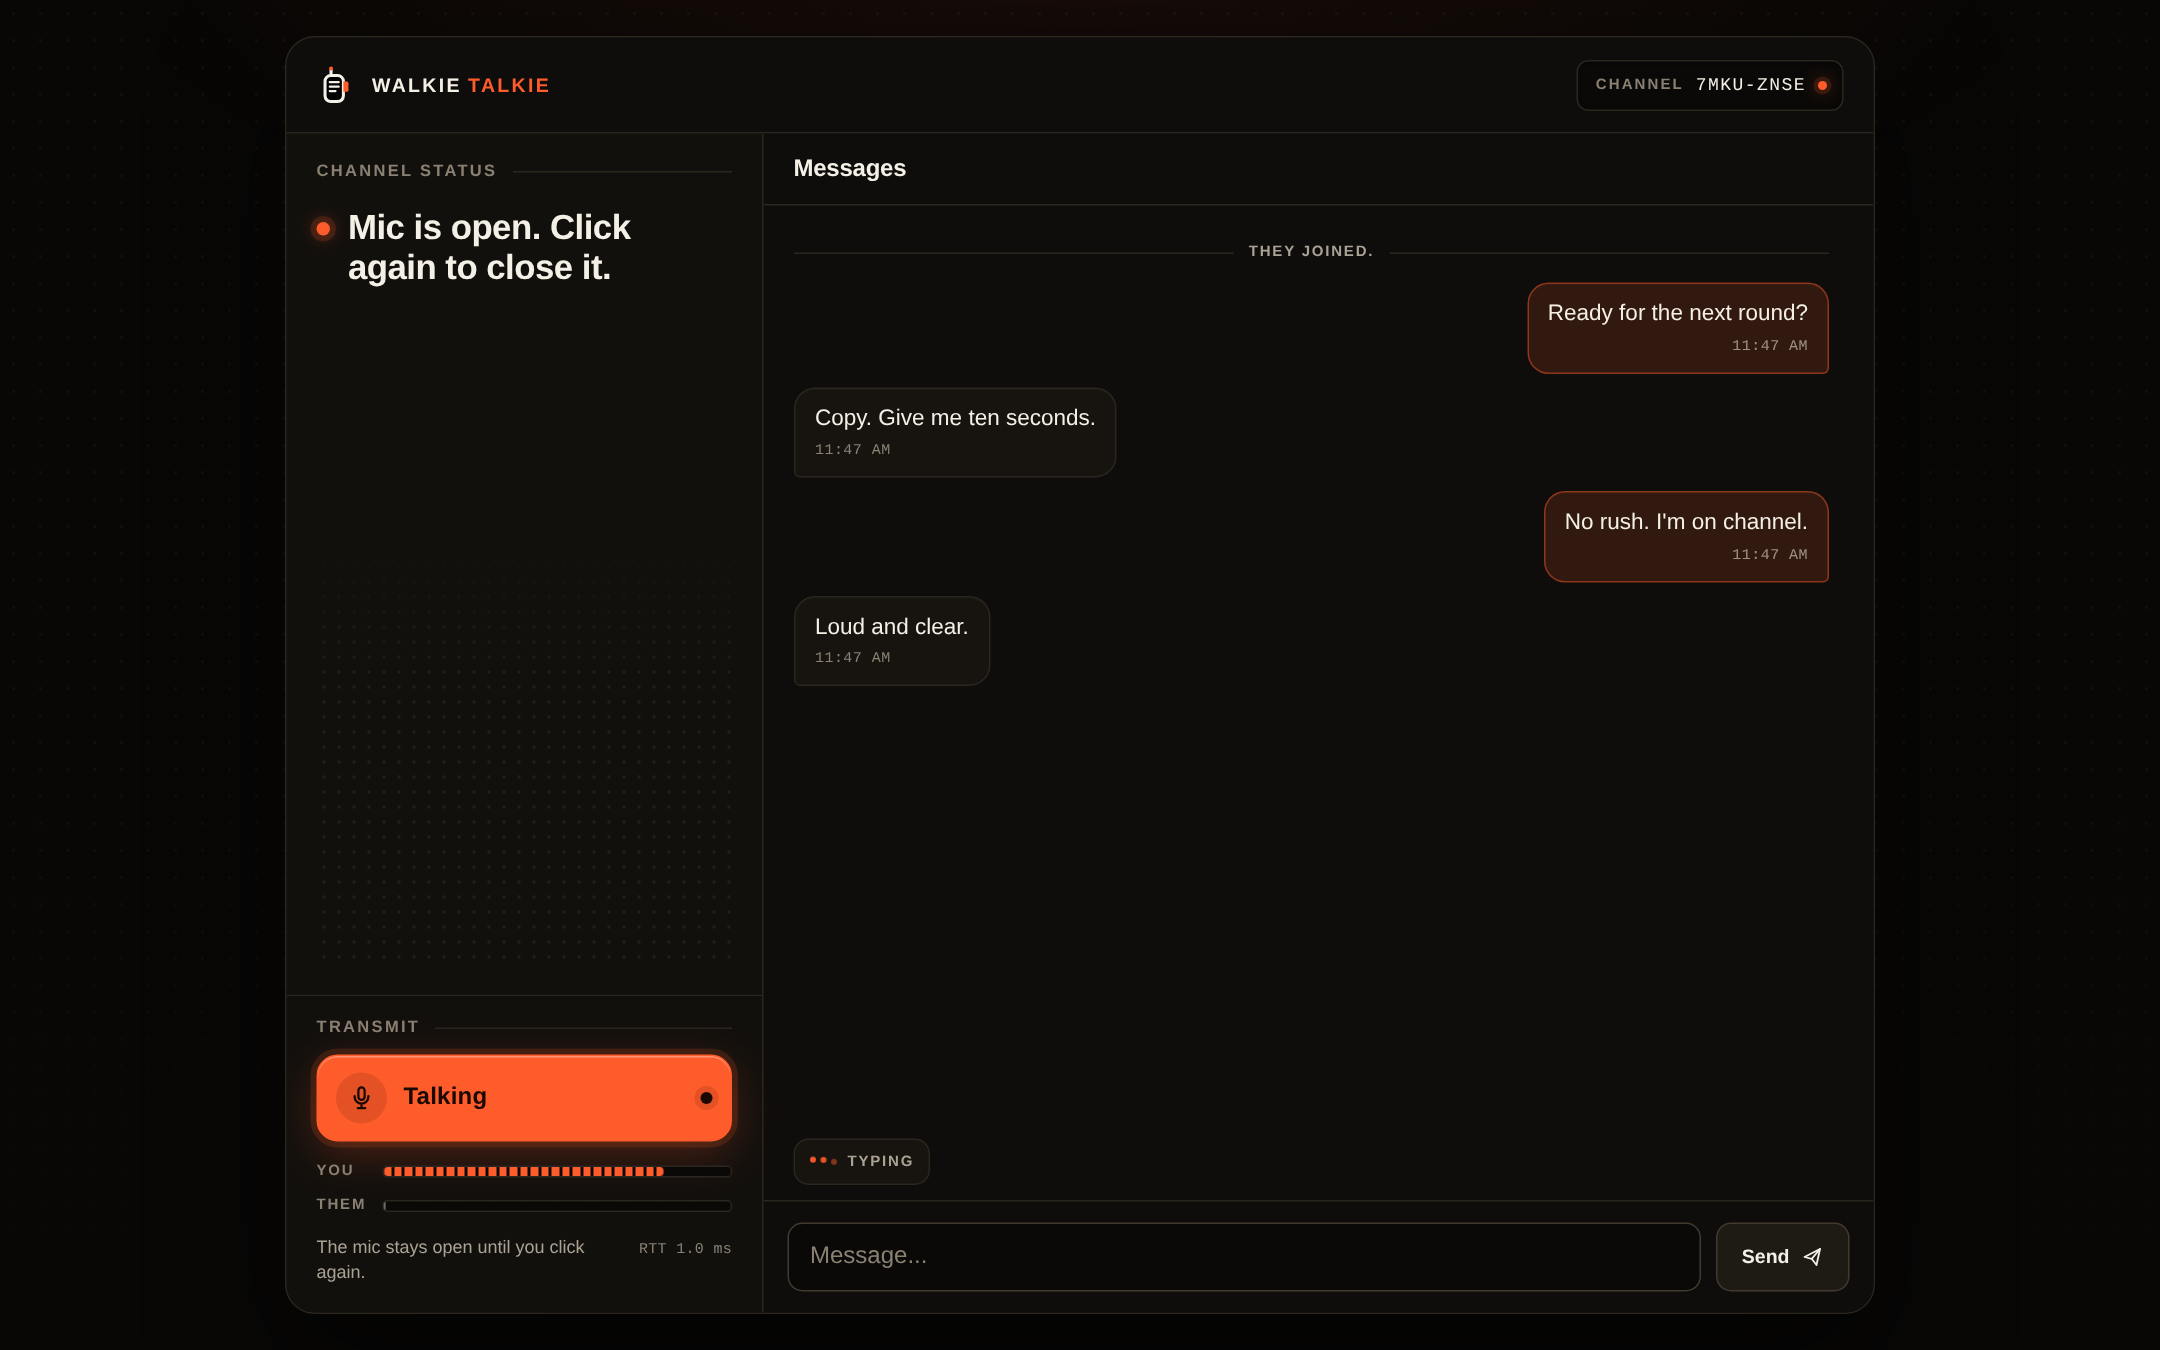
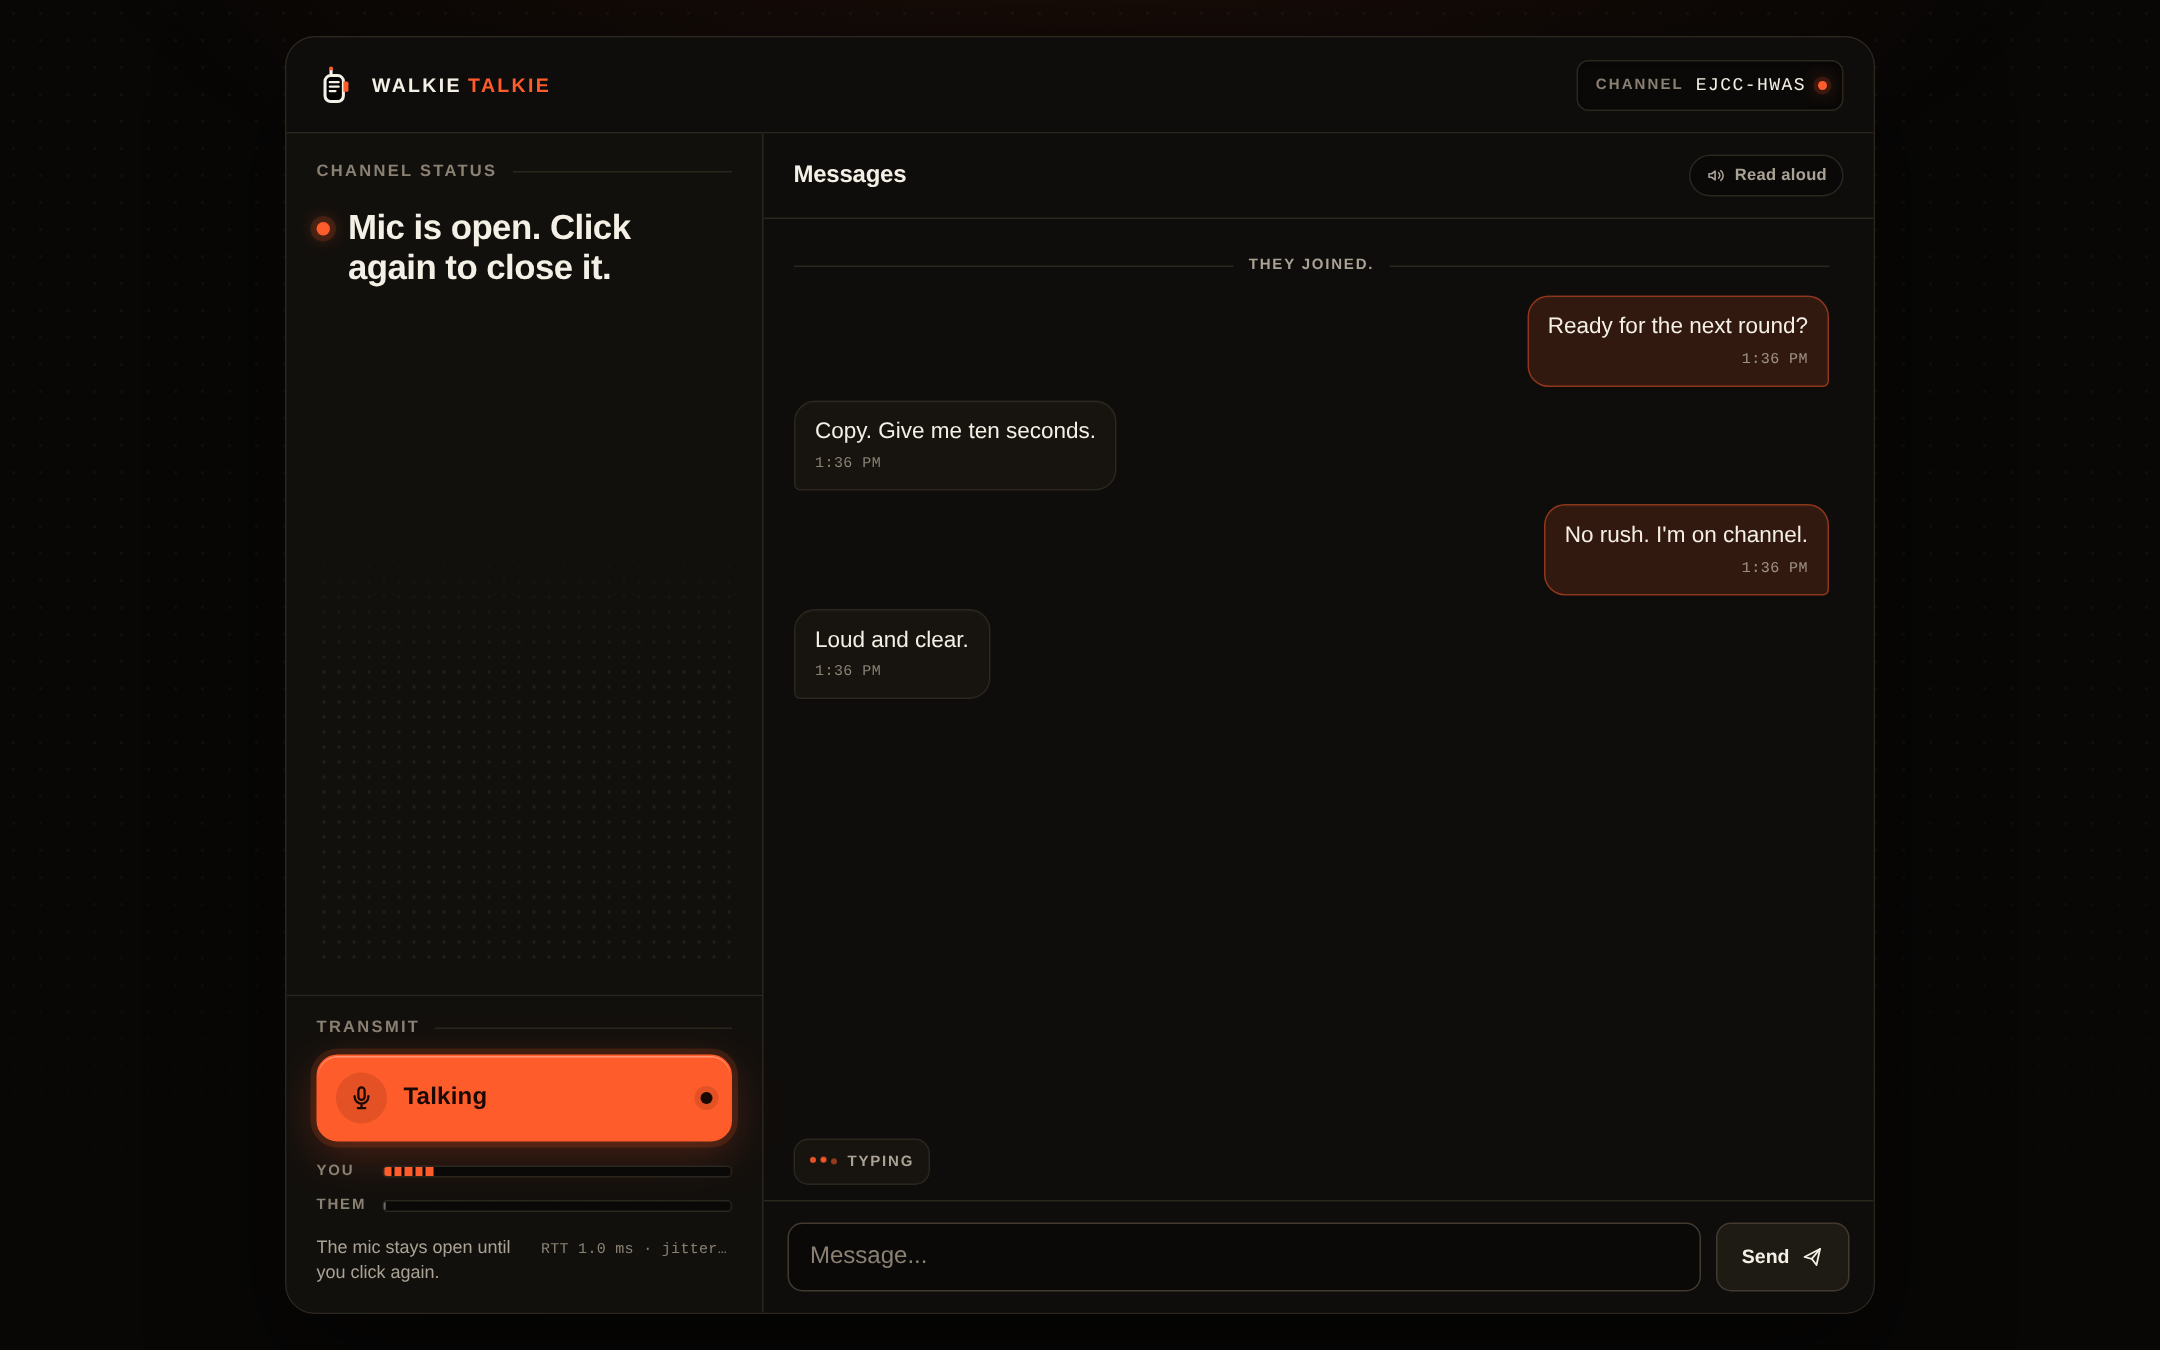
Add a read-aloud setting for incoming messages
Speak each incoming chat message with the browser's speech synthesis when Read aloud is on, remember the choice per device, and cancel the previous utterance so the newest message wins. Hide the control when the browser has no speech synthesis. The e2e harness records the utterances the page asks for and proves off stays silent.

Regenerate the README screenshots with the new control.

diff --git a/client/app.js b/client/app.js
@@ -9,6 +9,7 @@ const BACKOFF_MS = [500, 1000, 2000, 5000];
 const MAX_FAILED_CONNECTS = 3;
 const DEFAULT_ICE_SERVERS = [{ urls: "stun:stun.l.google.com:19302" }];
 const MAX_MESSAGES = 300;
+const READ_ALOUD_KEY = "walkie-talkie:read-aloud";
 
 const els = {
   body: document.body,
@@ -33,11 +34,13 @@ const els = {
   chatInput: document.getElementById("chat-input"),
   chatSend: document.getElementById("chat-send"),
   chatState: document.getElementById("chat-state"),
+  speak: document.getElementById("speak-toggle"),
   typing: document.getElementById("typing"),
   sound: document.getElementById("sound"),
 };
 
 const audio = new AudioMeters();
+const speech = detectSpeech();
 
 let uiState = "idle";
 let room = resolveRoom();
@@ -71,13 +74,26 @@ let peerTypingTimer = 0;
 let localTyping = false;
 let localTypingTimer = 0;
 let lastTypingSentAt = 0;
+let readAloud = false;
+let spokenCount = 0;
 
 const TYPING_IDLE_MS = 2000;
 const PEER_TYPING_TTL_MS = 3000;
 
+function detectSpeech() {
+  try {
+    if (!("speechSynthesis" in window)) return null;
+    if (typeof window.SpeechSynthesisUtterance !== "function") return null;
+    return window.speechSynthesis;
+  } catch {
+    return null;
+  }
+}
+
 function init() {
   updateRoomUI();
   wireEvents();
+  initReadAloud();
   watchViewport();
   watchMessageLog();
   iceConfigPromise = loadIceServers();
@@ -96,6 +112,9 @@ function init() {
         chatEnabled: chatReady(),
         messageCount: messages.length,
         peerTyping,
+        readAloud,
+        readAloudSupported: Boolean(speech),
+        spokenCount,
       };
     },
     async stats() {
@@ -628,6 +647,80 @@ function clearMessages() {
   setPeerTyping(false);
 }
 
+function initReadAloud() {
+  if (!els.speak || !speech) return;
+  els.speak.hidden = false;
+  els.speak.addEventListener("click", () => setReadAloud(!readAloud, true));
+  readAloud = loadReadAloud();
+  syncReadAloud();
+  // Some browsers load the voice list after the page starts.
+  try {
+    speech.getVoices();
+  } catch {}
+}
+
+function loadReadAloud() {
+  try {
+    return localStorage.getItem(READ_ALOUD_KEY) === "1";
+  } catch {
+    return false;
+  }
+}
+
+function saveReadAloud() {
+  try {
+    localStorage.setItem(READ_ALOUD_KEY, readAloud ? "1" : "0");
+  } catch {}
+}
+
+function setReadAloud(next, announce = false) {
+  if (!speech) return;
+  readAloud = Boolean(next);
+  if (!readAloud) stopReading();
+  saveReadAloud();
+  syncReadAloud();
+  if (!announce) return;
+  if (readAloud) {
+    flash("New messages will be read aloud.");
+    speakText("Read aloud on.", { cancel: true });
+  } else {
+    flash("Read aloud is off.");
+  }
+}
+
+function syncReadAloud() {
+  if (!els.speak) return;
+  els.speak.setAttribute("aria-pressed", readAloud ? "true" : "false");
+  els.speak.title = readAloud ? "Stop reading messages aloud" : "Read new messages out loud";
+}
+
+function readPeerMessageAloud(text) {
+  if (!readAloud || !speech) return;
+  speakText(text);
+}
+
+function speakText(text, { cancel = true } = {}) {
+  if (!speech) return;
+  const value = typeof text === "string" ? text.trim() : "";
+  if (!value) return;
+  try {
+    // A new message should not wait behind every earlier one. This is a live
+    // channel, so drop the tail and read the latest thing said.
+    if (cancel) speech.cancel();
+    const utterance = new window.SpeechSynthesisUtterance(value);
+    utterance.lang = document.documentElement.lang || navigator.language || "en";
+    speech.speak(utterance);
+    spokenCount += 1;
+  } catch {}
+}
+
+function stopReading() {
+  if (!speech) return;
+  try {
+    speech.cancel();
+  } catch {}
+}
+
 function isControl(target) {
   if (!(target instanceof Element)) return null;
   return target.closest("button, a, input, select, textarea, [contenteditable='true']");
@@ -954,6 +1047,7 @@ function handleServerMessage(raw, markJoined) {
       if (message.from && remotePeerId && message.from !== remotePeerId) break;
       setPeerTyping(false);
       appendMessage({ from: "peer", text: message.text, at: Number(message.at) });
+      readPeerMessageAloud(message.text);
       break;
 
     case "typing":
@@ -1110,6 +1204,7 @@ function enableSound() {
 function teardownPeer() {
   peerGeneration += 1;
   earlySignals = [];
+  stopReading();
   setLocalTyping(false);
   setPeerTyping(false);
   if (peer) {
@@ -1246,6 +1341,7 @@ async function loadIceServers() {
 function shutdown() {
   closeSocketQuietly();
   teardownPeer();
+  stopReading();
   if (micTrack) micTrack.removeEventListener("ended", onTrackEnded);
   if (micStream) {
     for (const track of micStream.getTracks()) {

diff --git a/client/styles.css b/client/styles.css
@@ -645,6 +645,57 @@ body[data-state="reconnecting"] .share {
   background: var(--danger);
 }
 
+.chat-head-actions {
+  display: flex;
+  flex: none;
+  align-items: center;
+  gap: 8px;
+  min-width: 0;
+}
+
+.speak-toggle {
+  display: inline-flex;
+  flex: none;
+  align-items: center;
+  gap: 6px;
+  min-height: 28px;
+  padding: 3px 10px;
+  border: 1px solid var(--line);
+  border-radius: var(--r-pill);
+  background: var(--inset);
+  color: var(--ink-muted);
+  font-size: var(--text-micro);
+  font-weight: 650;
+  letter-spacing: 0.02em;
+  white-space: nowrap;
+  transition: background-color 0.14s ease, border-color 0.14s ease, color 0.14s ease, transform 0.08s ease;
+}
+
+.speak-toggle svg {
+  flex: none;
+  width: 14px;
+  height: 14px;
+}
+
+.speak-toggle:hover:not(:disabled) {
+  border-color: var(--line-strong);
+  color: var(--ink);
+}
+
+.speak-toggle:active:not(:disabled) {
+  transform: translateY(1px);
+}
+
+.speak-toggle[aria-pressed="true"] {
+  border-color: var(--signal-line);
+  background: var(--signal-soft);
+  color: var(--signal);
+}
+
+.speak-toggle[aria-pressed="true"]:hover:not(:disabled) {
+  color: var(--signal-hover);
+}
+
 .messages {
   display: flex;
   flex: 1 1 auto;

diff --git a/client/index.html b/client/index.html
@@ -75,7 +75,16 @@
     <section class="chat" aria-labelledby="chat-title">
       <div class="chat-head">
         <h2 id="chat-title">Messages</h2>
-        <span id="chat-state" class="chat-state" data-state="idle">Not started</span>
+        <div class="chat-head-actions">
+          <span id="chat-state" class="chat-state" data-state="idle">Not started</span>
+          <button id="speak-toggle" class="speak-toggle" type="button" aria-pressed="false" aria-label="Read new messages aloud" title="Read new messages out loud" hidden>
+            <svg viewBox="0 0 24 24" width="14" height="14" fill="none" stroke="currentColor" stroke-width="1.8" stroke-linecap="round" stroke-linejoin="round" aria-hidden="true" focusable="false">
+              <path d="M4 10v4h3l4 3V7L7 10H4Z"/>
+              <path d="M15 9a4 4 0 0 1 0 6M17.5 6.5a7 7 0 0 1 0 11"/>
+            </svg>
+            <span>Read aloud</span>
+          </button>
+        </div>
       </div>
 
       <div id="messages" class="messages" role="log" aria-live="polite" aria-relevant="additions">

diff --git a/README.md b/README.md
@@ -8,6 +8,7 @@ A low-latency voice channel for a parent and kid to talk while playing games tog
 - Opening the page asks for the microphone and joins the room automatically.
 - Click to talk with Space or the Talk key. Click again to close the mic.
 - Send messages back and forth over the same room while you are connected, with a live typing indicator.
+- Turn on **Read aloud** to have new messages from the other person spoken by the browser. The choice is remembered on that device.
 - Audio goes peer-to-peer over WebRTC. The server only handles signaling, chat and typing relay, and static files.
 - No accounts. The room link is the only key.
 
@@ -122,7 +123,7 @@ npx playwright install chromium   # once
 npm run test:e2e
 ```
 
-The end-to-end harness starts a real server, launches two Chromium contexts with a fake microphone, pairs them without a start click, proves the QR code renders, proves a 390x700 viewport keeps the QR code and message log visible, proves the typing indicator appears and clears, exchanges chat messages both ways, shrinks the visual viewport to simulate an iPhone keyboard and proves the newest messages and composer stay visible, clicks to talk, asserts that audio bytes arrive, proves the mic latches open and closed, checks the real Space key, reads network RTT, closes the mic when the peer leaves, has both peers leave and rejoin, and saves a screenshot to `test-results/e2e-live.png`.
+The end-to-end harness starts a real server, launches two Chromium contexts with a fake microphone, pairs them without a start click, proves the QR code renders, proves a 390x700 viewport keeps the QR code and message log visible, proves the typing indicator appears and clears, exchanges chat messages both ways, turns the Read aloud setting on and proves incoming messages are sent to the browser voice, turns it off and proves later messages stay silent, shrinks the visual viewport to simulate an iPhone keyboard and proves the newest messages and composer stay visible, clicks to talk, asserts that audio bytes arrive, proves the mic latches open and closed, checks the real Space key, reads network RTT, closes the mic when the peer leaves, has both peers leave and rejoin, and saves a screenshot to `test-results/e2e-live.png`. Headless Chromium has no system voices, so the harness records the utterances the page asks the browser to speak.
 
 ```sh
 npm run screenshots
@@ -141,7 +142,7 @@ Runs the acoustic mouth-to-ear rig. It needs a desktop session, a real microphon
 ```
 client/
   index.html    page shell, message thread, and the DOM contract
-  app.js        UI state, room URLs, WebSocket signaling, chat, typing, click-to-talk
+  app.js        UI state, room URLs, WebSocket signaling, chat, typing, read aloud, click-to-talk
   rtc.js        one audio transceiver, offer/answer, trickle ICE, stats
   audio.js      local and remote level meters
   mark.svg      station mark
@@ -165,6 +166,8 @@ The first person opens the page and gets a random code such as `ABCD-EFGH`. The 
 
 Text messages and typing state use the same signaling socket. The server trims each message, caps it at 2000 characters, and relays it to the other peer with a timestamp. Typing state is relayed as it changes and is not stored. Nothing is echoed to the sender, and both are dropped if nobody else is in the room.
 
+Read aloud is local to the receiving browser. When it is on, an incoming message is passed to the browser's speech synthesis, replacing any message still being spoken so the latest thing said wins. The server never sees the setting and is not involved in speaking.
+
 Rooms are in memory and disappear when the last peer leaves. The server never sees audio, never inspects SDP, and logs no room codes, addresses, message text, or typing state.
 
 ## Design
@@ -179,6 +182,7 @@ The interface is a two-way console: a channel readout, a status rail, a running 
 - Chat is relayed in memory and not stored. A peer who joins later sees only messages sent after they arrive, and there are no delivery receipts.
 - Because the page joins on load, the browser shows the microphone prompt immediately. Some browsers block remote audio until you interact with the page; a "Tap to hear them" button appears when that happens.
 - Chat transits the signaling server, so it is not end-to-end encrypted. Use HTTPS when you are not on localhost.
+- Read aloud uses the browser's built-in speech synthesis. Voice availability and quality follow the operating system; some Linux browsers need `speech-dispatcher` and a voice package installed before any voice is offered.
 - The room code is the only access control. Anyone with the code can take the open slot. There is no join rate limiting.
 - Rooms live in one process. Running multiple servers would require shared signaling state.
 - Two participants only.
@@ -188,4 +192,4 @@ The interface is a two-way console: a channel readout, a status rail, a running 
 
 ## Status
 
-Working v1.2 with voice, text, and typing state. The measured mouth-to-ear latency is about 160 ms, over the 150 ms target. The next useful steps are reducing browser audio latency, splitting the remaining pipeline delay into encode, decode, and output buffering, a global talk-key wrapper for Linux, a TURN deployment recipe with short-lived credentials, and an explicit leave control.
+Working v1.3 with voice, text, typing state, and optional read-aloud messages. The measured mouth-to-ear latency is about 160 ms, over the 150 ms target. The next useful steps are reducing browser audio latency, splitting the remaining pipeline delay into encode, decode, and output buffering, a global talk-key wrapper for Linux, a TURN deployment recipe with short-lived credentials, and an explicit leave control.

diff --git a/DESIGN.md b/DESIGN.md
@@ -158,6 +158,19 @@ A running log, not a feed. Self sits right with a signal-tinted bubble; the othe
 .message--system::before, .message--system::after { content: ""; flex: 1; height: 1px; background: var(--line); }
 ```
 
+### Read-aloud toggle
+
+A setting pill beside the chat status. Off is inset graphite; on takes the signal tint. The label stays `Read aloud` and `aria-pressed` carries the state. It is hidden when the browser has no speech synthesis.
+
+```html
+<button id="speak-toggle" type="button" aria-pressed="false">… Read aloud</button>
+```
+
+```css
+.speak-toggle { min-height: 28px; border: 1px solid var(--line); border-radius: var(--r-pill); background: var(--inset); color: var(--ink-muted); }
+.speak-toggle[aria-pressed="true"] { border-color: var(--signal-line); background: var(--signal-soft); color: var(--signal); }
+```
+
 ### Composer
 
 One inset field and one quiet send action. The send button is raised graphite, not a second signal-filled primary while Talk is on screen. Focus adds a signal border and a 3 px soft ring. The field itself is 16 px rather than the 15 px body token: iOS Safari zooms the whole page when a focused field is smaller than 16 px, which knocks the console out of alignment.
